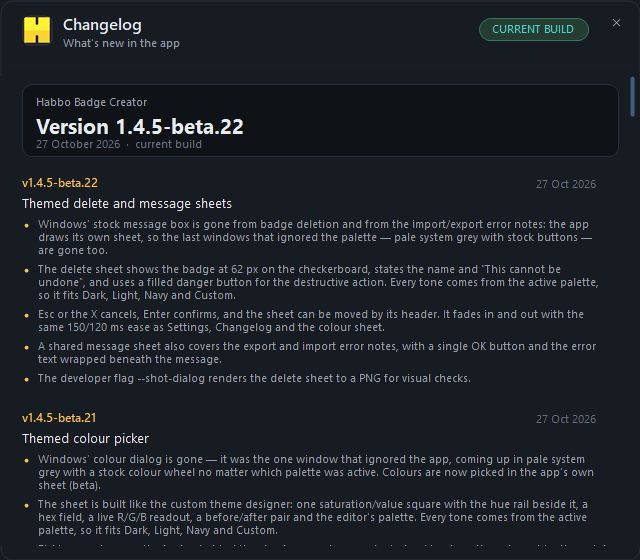
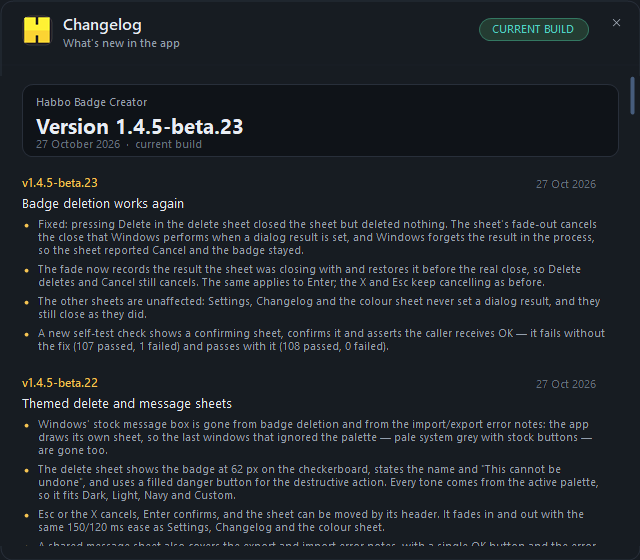
Keep the dialog result when the fade holds a sheet open
Pressing Delete in the delete sheet closed the sheet but deleted nothing. The
sheet's fade-out cancels the close that Windows runs when a dialog result is
set, and Windows forgets the result on the way, so ShowDialog reported Cancel
for a confirmed delete and Store.Delete was never reached. The fade now records
the result the sheet is closing with and restores it before the real close, so
Delete deletes again and Cancel, Esc and the X still cancel.

A new self-test check shows a confirming sheet, confirms it and asserts the
caller receives OK; it fails without the fix (107 passed, 1 failed) and passes
with it (108 passed, 0 failed). Settings, Changelog and the colour sheet never
set a dialog result, and their close paths are unchanged.

Bumps the beta to 1.4.5-beta.23 with its changelog entry, README row and notes.

diff --git a/src/Changelog.cs b/src/Changelog.cs
@@ -9,13 +9,30 @@ namespace HabboBadgeCreator
     /// <summary>Version, credit and the release history shown in the changelog.</summary>
     internal static class AppInfo
     {
-        public const string Version = "1.4.5-beta.22";
-        public const string Build = "2026-10-27.22";
+        public const string Version = "1.4.5-beta.23";
+        public const string Build = "2026-10-27.23";
         public const string Date = "27 October 2026";
         public const string Credit = "Habbo Badge Creator © 2026 Jumayusi — Not affiliated with Habbo or Sulake";
 
         public static readonly ReleaseNote[] Releases = new ReleaseNote[]
         {
+            new ReleaseNote("1.4.5-beta.23", "27 Oct 2026",
+                "Badge deletion works again",
+                "Badge-Löschen funktioniert wieder",
+                new string[]
+                {
+                    "Fixed: pressing Delete in the delete sheet closed the sheet but deleted nothing. The sheet's fade-out cancels the close that Windows performs when a dialog result is set, and Windows forgets the result in the process, so the sheet reported Cancel and the badge stayed.",
+                    "The fade now records the result the sheet was closing with and restores it before the real close, so Delete deletes and Cancel still cancels. The same applies to Enter; the X and Esc keep cancelling as before.",
+                    "The other sheets are unaffected: Settings, Changelog and the colour sheet never set a dialog result, and they still close as they did.",
+                    "A new self-test check shows a confirming sheet, confirms it and asserts the caller receives OK — it fails without the fix (107 passed, 1 failed) and passes with it (108 passed, 0 failed)."
+                },
+                new string[]
+                {
+                    "Behoben: Ein Klick auf Löschen im Löschfenster schloss das Fenster, löschte aber nichts. Der Ausblend-Effekt bricht das Schließen ab, das Windows beim Setzen eines Dialog-Ergebnisses ausführt – dabei vergisst Windows das Ergebnis, das Fenster meldete Abbrechen und das Badge blieb.",
+                    "Der Effekt merkt sich jetzt das Ergebnis, mit dem das Fenster geschlossen werden soll, und setzt es vor dem eigentlichen Schließen zurück. Damit löscht Löschen wieder, und Abbrechen bricht weiterhin ab. Das gilt auch für Enter; Kreuz und Esc brechen wie bisher ab.",
+                    "Die anderen Fenster sind nicht betroffen: Einstellungen, Änderungen und der Farbwähler setzen kein Dialog-Ergebnis und schließen unverändert.",
+                    "Eine neue Selbsttest-Prüfung öffnet ein Bestätigungsfenster, bestätigt es und prüft, dass der Aufrufer OK erhält – ohne die Korrektur schlägt sie fehl (107 bestanden, 1 fehlgeschlagen), mit ihr besteht sie (108 bestanden, 0 fehlgeschlagen)."
+                }),
             new ReleaseNote("1.4.5-beta.22", "27 Oct 2026",
                 "Themed delete and message sheets",
                 "Lösch- und Meldungsfenster im App-Design",

diff --git a/src/Program.cs b/src/Program.cs
@@ -1023,7 +1023,43 @@ namespace HabboBadgeCreator
                 Check("error sheet grows for wrapped text", f.ClientSize.Height > shortH);
                 Check("error sheet has one action and no cancel", !f.HasCancelAction && !f.HasDangerAction);
             }
+
+            // The fade cancels the close the moment a caller sets DialogResult, so the result has to
+            // survive the fade-out; this is what badge deletion depends on.
+            Check("a confirmed sheet reports OK once its fade-out ends", ConfirmedResult() == DialogResult.OK);
             T.Apply(before);
+        }
+
+        /// <summary>Shows a confirming sheet, confirms it from a timer, and returns what the caller gets.</summary>
+        static DialogResult ConfirmedResult()
+        {
+            DialogResult result = DialogResult.None;
+            using (MessageSheetForm f = new MessageSheetForm(MessageKind.Warning,
+                "Delete badge", "Delete \"Golden Crown\" from your badges?", "This cannot be undone.",
+                "Delete", "Cancel", null, true))
+            {
+                System.Windows.Forms.Timer click = new System.Windows.Forms.Timer();
+                click.Interval = 120;
+                click.Tick += delegate
+                {
+                    click.Stop();
+                    click.Dispose();
+                    f.DialogResult = DialogResult.OK;   // what the delete button's Commit does
+                };
+                // never let a regression hang the self-test
+                System.Windows.Forms.Timer guard = new System.Windows.Forms.Timer();
+                guard.Interval = 3000;
+                guard.Tick += delegate
+                {
+                    guard.Stop();
+                    guard.Dispose();
+                    f.Close();
+                };
+                f.Shown += delegate { click.Start(); guard.Start(); };
+                result = f.ShowDialog();
+                guard.Dispose();
+            }
+            return result;
         }
 
         static void CheckDiscord()

diff --git a/src/Controls.cs b/src/Controls.cs
@@ -28,6 +28,10 @@ namespace HabboBadgeCreator
             bool closing = false;    // the fade-out is running
             bool finished = false;   // our own Close() at the end of the fade-out
             int span = InMs;
+            // A caller that sets DialogResult closes the sheet through Windows, and cancelling that
+            // close for the fade makes WinForms forget the result (a modal sheet then reports Cancel).
+            // The wanted result is taken here and re-applied before the real close.
+            DialogResult wanted = DialogResult.None;
             float from = 0f, to = 1f;   // the ramp, taken from wherever the sheet is right now
 
             // the window is created transparent, so the first visible frame is the dim first step
@@ -54,6 +58,7 @@ namespace HabboBadgeCreator
                 if (e.CloseReason != CloseReason.None && e.CloseReason != CloseReason.UserClosing) return;
                 if (!sheet.IsHandleCreated || sheet.WindowState == FormWindowState.Minimized) return;
 
+                wanted = sheet.DialogResult;
                 e.Cancel = true;
                 closing = true;
                 from = (float)sheet.Opacity;   // closing mid fade-in continues from there, no pop
@@ -78,6 +83,8 @@ namespace HabboBadgeCreator
                     {
                         timer.Stop();
                         finished = true;
+                        // restore what the caller asked for, so a confirmed sheet reports OK
+                        if (wanted != DialogResult.None && sheet.DialogResult != wanted) sheet.DialogResult = wanted;
                         sheet.Close();   // already invisible at this point, so nothing flashes
                         return;
                     }

diff --git a/src/AssemblyInfo.cs b/src/AssemblyInfo.cs
@@ -11,6 +11,6 @@ using System.Runtime.InteropServices;
 [assembly: ComVisible(false)]
 
 // numeric file version for Explorer, human-readable beta version in details
-[assembly: AssemblyVersion("1.4.5.22")]
-[assembly: AssemblyFileVersion("1.4.5.22")]
-[assembly: AssemblyInformationalVersion("1.4.5-beta.22")]
+[assembly: AssemblyVersion("1.4.5.23")]
+[assembly: AssemblyFileVersion("1.4.5.23")]
+[assembly: AssemblyInformationalVersion("1.4.5-beta.23")]

diff --git a/BETA.md b/BETA.md
@@ -20,7 +20,7 @@ are usable, but their behaviour and saved format may still change.
 | Data folder | `%APPDATA%\HabboBadgeCreator` | `%APPDATA%\HabboBadgeCreatorBeta` |
 | App bar | HABBO wordmark | HABBO wordmark + gold **BETA** pill |
 | Splash | `BADGE CREATOR` | `BADGE CREATOR · BETA` |
-| Version | `1.4.5` | `1.4.5-beta.22` |
+| Version | `1.4.5` | `1.4.5-beta.23` |
 
 Both builds can run at the same time. They never read or write each other's gallery, draft or
 `settings.json`.
@@ -50,6 +50,16 @@ Both builds can run at the same time. They never read or write each other's gall
   Picking previews on the badge; **Cancel** puts the previous colour back.
 - **Themed confirmations** - deleting a badge opens the app's own sheet with the badge preview and
   a danger **Delete** button, and import/export errors use the same sheet, in every palette.
+
+### New in 1.4.5-beta.23
+
+Badge deletion works again. Pressing **Delete** in the delete sheet closed the sheet but kept the
+badge: the sheet's fade-out cancels the close Windows performs when a dialog result is set, and
+Windows forgets the result on the way, so the sheet reported Cancel and nothing was deleted. The
+fade now records the result the sheet is closing with and restores it before the real close, so
+**Delete** deletes again and **Cancel**, Esc and the X still cancel. The other sheets never set a
+dialog result and close as before. A new self-test check confirms a confirming sheet reports OK
+to its caller (108 passed, 0 failed). See the [full changelog](README.md#changelog).
 
 ### New in 1.4.5-beta.22
 

diff --git a/README.md b/README.md
@@ -133,6 +133,7 @@ and a dated entry per release, so a new build ships its own notes. Entries live 
 
 | Version | Date | Highlights |
 | --- | --- | --- |
+| 1.4.5-beta.23 | 27 Oct 2026 | **Beta:** fixed badge deletion — the delete sheet's fade-out dropped the confirmed result, so pressing **Delete** closed the sheet but kept the badge; the fade now restores the result before closing |
 | 1.4.5-beta.22 | 27 Oct 2026 | **Beta:** themed delete and message sheets — badge thumbnail, danger button and palette-aware chrome replace Windows' stock message box for badge deletion and import/export errors |
 | 1.4.5-beta.21 | 27 Oct 2026 | **Beta:** the app's own colour sheet replaces Windows' colour dialog — saturation/value square, hue rail, hex and R/G/B, before/after and the palette, themed for every palette and previewing live on the badge |
 | 1.4.5-beta.20 | 27 Oct 2026 | **Beta:** Settings and Changelog fade in and out over the editor (150 ms in, 120 ms out, eased); a close during the fade-in continues from the current opacity |
